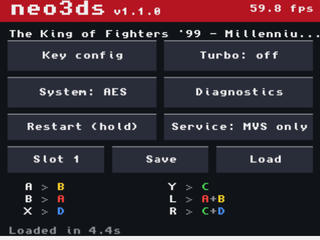
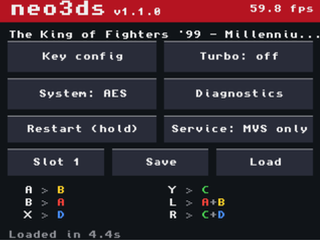
:lipstick: site: hero 실기 사진 로테이션 + 하단 흰 줄 제거 (#51)
* :lipstick: site: hero GIF→실기 사진 5종 로테이션 + 하단 흰 줄 제거 (#50)

- gameplay 사진 400×240 정규화 (hero-*.jpg) + 25초 crossfade
- GIF/PNG 4종 삭제 + gifSwap·GIF 스와퍼 JS 제거
- ui-bottom.png 하단 4행 흰 밴드 크롭

관련 이슈 #50

* :lipstick: site: 리뷰 반영 — crossfade 겹침 수정 + 타이밍 주석 (#50)

diff --git a/site/styles.css b/site/styles.css
@@ -91,8 +91,14 @@ ul,ol,dl{margin:0;padding:0;list-style:none}
 .screen-top{width:100%;height:100%}
 .screen-bottom{width:100%;height:100%}
 .screen-stack{position:relative}
-.screen-stack .gif-b{position:absolute;inset:0;animation:gifSwap 12s infinite}
-@keyframes gifSwap{0%,45%{opacity:0}50%,95%{opacity:1}100%{opacity:0}}
+.screen-stack .hero-ph{position:absolute;inset:0;opacity:0;animation:heroRot 25s infinite}
+.screen-stack .hero-ph:first-child{position:relative;animation-delay:0s}
+.screen-stack .hero-ph:nth-child(2){animation-delay:-20s}
+.screen-stack .hero-ph:nth-child(3){animation-delay:-15s}
+.screen-stack .hero-ph:nth-child(4){animation-delay:-10s}
+.screen-stack .hero-ph:nth-child(5){animation-delay:-5s}
+/* 25s ÷ 5 photos = 5s slots; each photo fully visible 1–5s of its slot, fading in/out 1s. */
+@keyframes heroRot{0%{opacity:0}4%,20%{opacity:1}24%,100%{opacity:0}}
 .hinge{height:calc(14*var(--u));position:relative;background:linear-gradient(#1C1C23,#26262F)}
 .hinge span{position:absolute;top:calc(-10*var(--u));width:calc(180*var(--u));height:calc(16*var(--u));
   background:#26262F;border:1px solid #34343E;border-bottom:0}
@@ -320,5 +326,6 @@ ul,ol,dl{margin:0;padding:0;list-style:none}
 }
 @media (prefers-reduced-motion:reduce){
   *{animation-duration:.001ms !important;transition-duration:.001ms !important}
-  .screen-stack .gif-b{animation:none;opacity:0}
+  .screen-stack .hero-ph{animation:none}
+  .screen-stack .hero-ph:first-child{opacity:1}
 }

diff --git a/site/index.html b/site/index.html
@@ -64,8 +64,11 @@
           <div class="cam"></div>
           <span class="speaker"></span>
           <div class="screen-outer screen-stack">
-            <img class="screen-top gif-a" src="media/game-kof98.gif" width="400" height="240" alt="" fetchpriority="high" decoding="async">
-            <img class="screen-top gif-b" src="media/game-mslug3.gif" width="400" height="240" alt="" decoding="async">
+            <img class="screen-top hero-ph" src="media/hero-kof98.jpg" width="400" height="240" alt="" fetchpriority="high" decoding="async">
+            <img class="screen-top hero-ph" src="media/hero-mslug3.jpg" width="400" height="240" alt="" loading="lazy" decoding="async">
+            <img class="screen-top hero-ph" src="media/hero-sonicwi3.jpg" width="400" height="240" alt="" loading="lazy" decoding="async">
+            <img class="screen-top hero-ph" src="media/hero-samsho5.jpg" width="400" height="240" alt="" loading="lazy" decoding="async">
+            <img class="screen-top hero-ph" src="media/hero-maxres.jpg" width="400" height="240" alt="" loading="lazy" decoding="async">
           </div>
         </div>
         <div class="hinge"><span></span><span></span></div>

diff --git a/site/app.js b/site/app.js
@@ -199,10 +199,6 @@ try {
 }
 $$('.lang button').forEach((b) => b.addEventListener('click', () => { setLang(b.dataset.lang); refreshDynamic(); }));
 
-/* 모션을 줄이는 설정이면 GIF 대신 같은 프레임의 정지 이미지를 씁니다. */
-if (matchMedia('(prefers-reduced-motion: reduce)').matches) {
-  $$('.device img').forEach((img) => { img.src = img.src.replace(/\.gif$/, '.png'); });
-}
 
 /* 게임 DB (예산·호환성 섹션이 씀) + 해독 체인 표시 (호환성 상세) */
 const DB = window.NEO3DS_DB || { counts: { total: 0, ok: 0, no: 0, verified: 0 }, games: [] };
